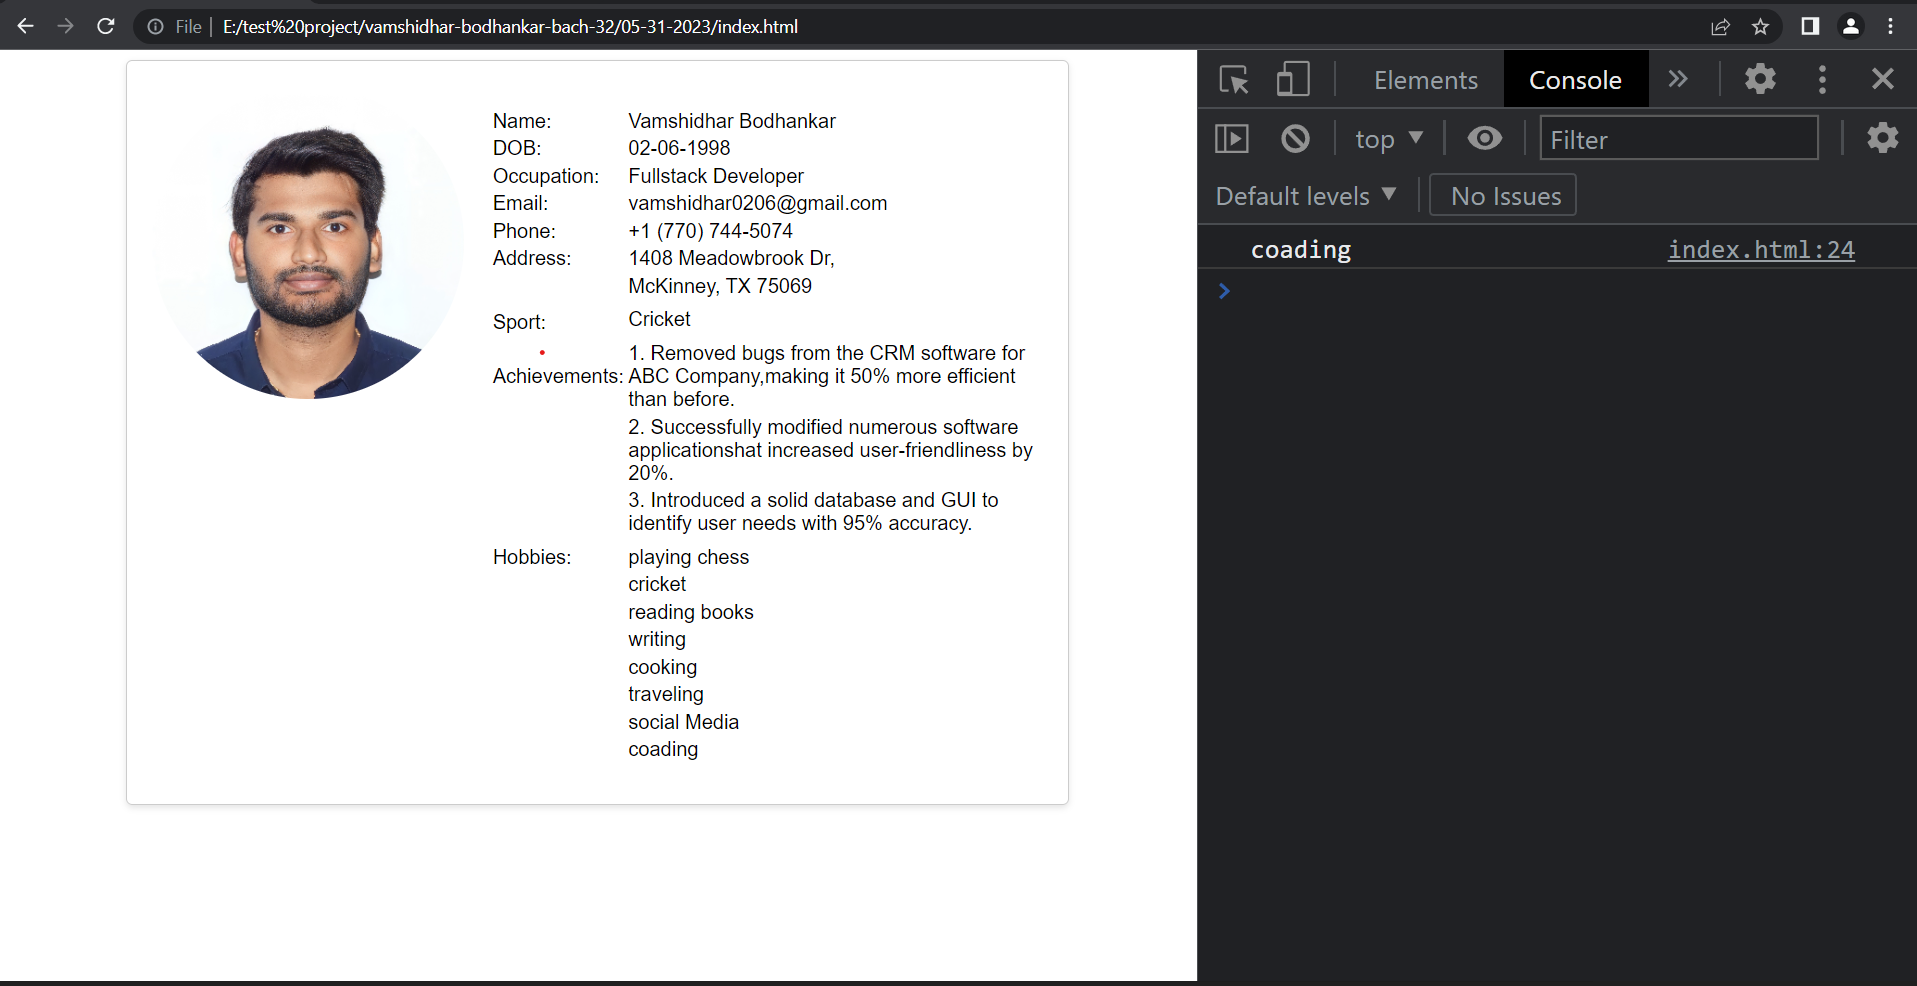
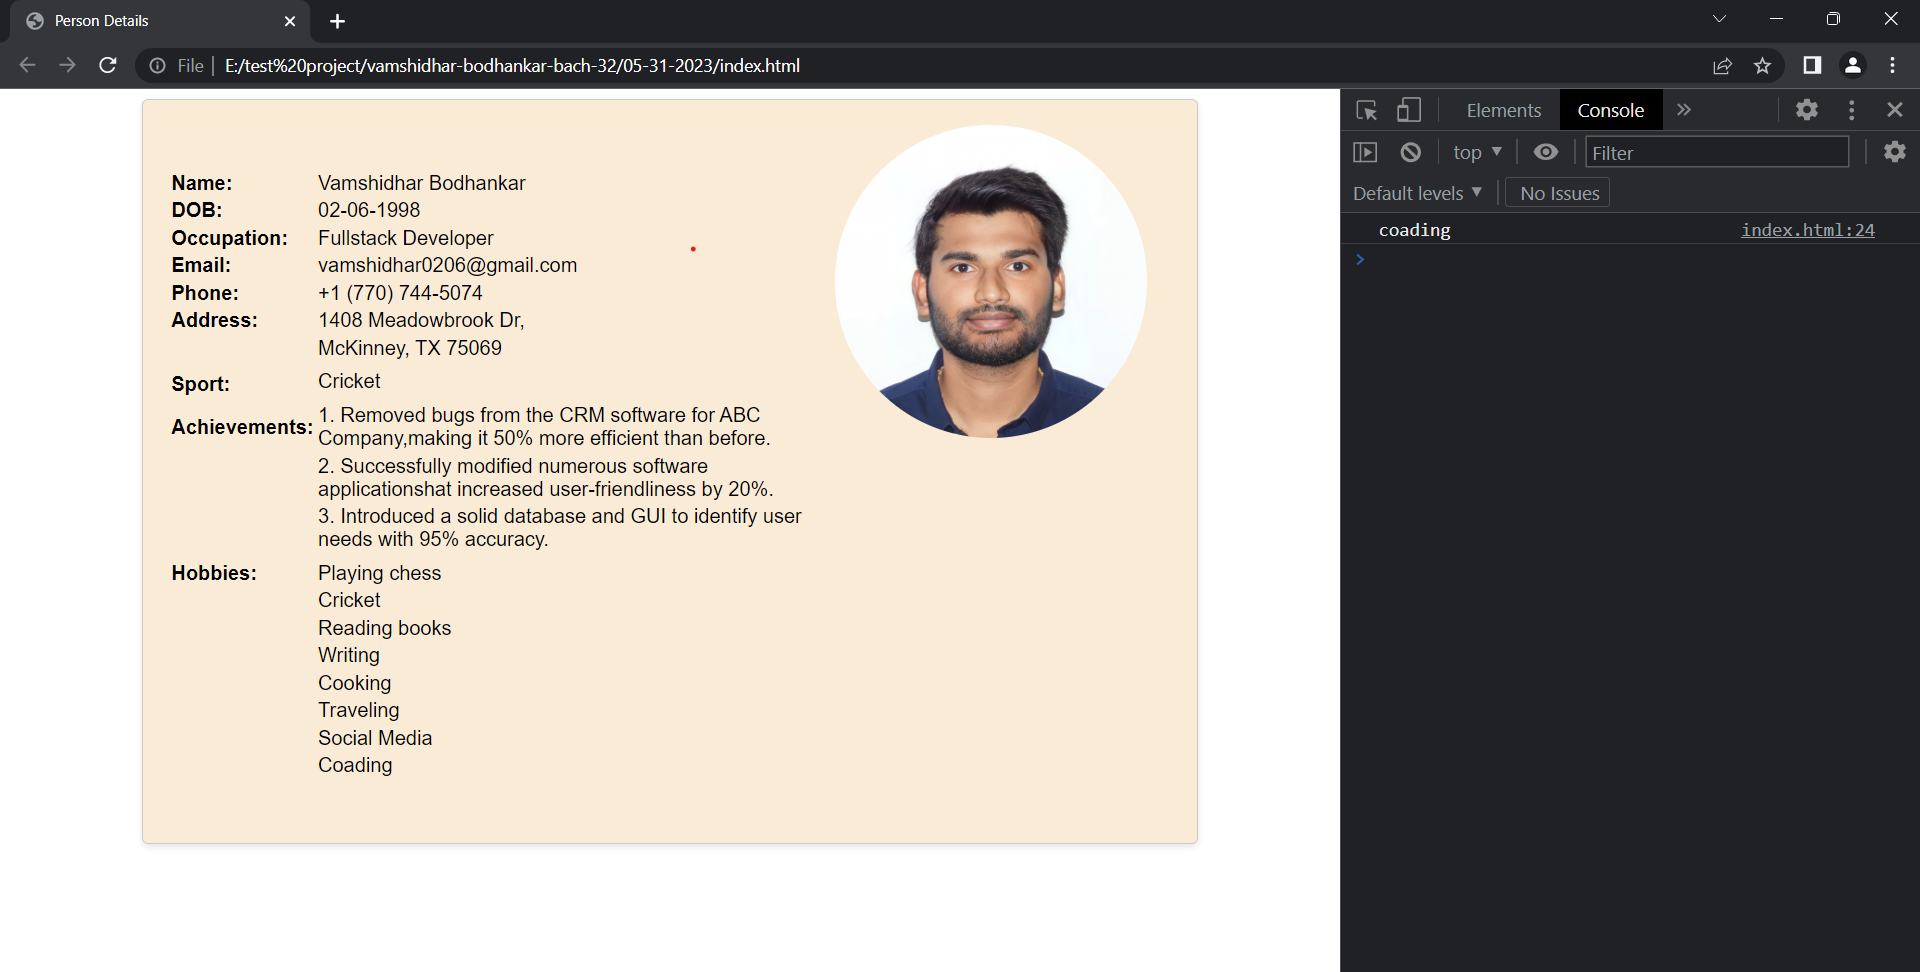
final commit 3 color changes

diff --git a/05-31-2023/index.html b/05-31-2023/index.html
@@ -27,6 +27,7 @@
 
   <style>
      .card {
+      background-color:antiquewhite;
       display: flex;
       align-items: center;
       margin-top: 1;
@@ -39,6 +40,7 @@
       font-family: Arial, sans-serif;
     }
     .card img {
+      
       width: 250;
       height: 250px;
       border-radius: 50%;
@@ -76,33 +78,31 @@
 
     
   </style>
-</head>
 <body>
     
     <div  class="card">
-        <div  class="image"><img id="img" width="250" height="250"  src="E:\test project\vamshidhar-bodhankar-bach-32\05-31-2023\avatar\image.jpg" 
-                    alt="vamshidhar-bodhankar-bach-32\05-31-2023\avatar\image.jpg"> </div>
+        
     <div class="card-details">
         <table>
-        <h2><tr> <td>Name: </td><td>Vamshidhar Bodhankar</tr></h2>
-        <p><tr><td>DOB:</td><td> 02-06-1998</td></tr></p>
-        <p><tr><td>Occupation:</td><td> Fullstack Developer</td></tr></p>
-        <p><tr><td>Email:</td><td> vamshidhar0206@gmail.com</td></tr></p>
-        <p><tr><td>Phone:</td><td> +1 (770) 744-5074</td></tr></p>
-        <p><tr><td>Address:</td><td> 1408 Meadowbrook Dr, <br>
+        <h2><tr> <td><b>Name: </b></td><td>Vamshidhar Bodhankar</tr></h2>
+        <p><tr><td><b>DOB:</b></td><td> 02-06-1998</td></tr></p>
+        <p><tr><td><b>Occupation:</b></td><td> Fullstack Developer</td></tr></p>
+        <p><tr><td><b>Email:</b></td><td> vamshidhar0206@gmail.com</td></tr></p>
+        <p><tr><td><b>Phone:</b></td><td> +1 (770) 744-5074</td></tr></p>
+        <p><tr><td><b>Address:</b></td><td> 1408 Meadowbrook Dr, <br>
             <tr><td></td><td>McKinney, TX 75069 </p>
-        <p><tr><td>Sport:</td><td> Cricket</p>
-        <p><tr><td>Achievements:</td><td> 1. Removed bugs from the CRM software for ABC Company,making it 50% more efficient than before.</td></tr>
+        <p><tr><td><b>Sport:</b></td><td> Cricket</p>
+        <p><tr><td><b>Achievements:</b></td><td> 1. Removed bugs from the CRM software for ABC Company,making it 50% more efficient than before.</td></tr>
             <tr><td></td><td>2. Successfully modified numerous software applicationshat increased user-friendliness by 20%.</td></tr>
             <tr><td></td><td>3. Introduced a solid database and GUI to identify user needs with 95% accuracy.<br> </p>
-            <tr><td>Hobbies:</td><td>playing chess <td>          
-            <tr><td></td><td>cricket</td></tr>
-            <tr><td></td><td>reading books </td></tr>
-            <tr><td></td><td>writing</td></tr>
-            <tr><td></td><td>cooking </td></tr>
-            <tr><td></td><td>traveling</td></tr>
-            <tr><td></td><td>social Media</td></tr>
-            <tr><td></td><td>coading</td></tr>
+            <tr><td><b>Hobbies:</b></td><td>Playing chess <td>          
+            <tr><td></td><td>Cricket</td></tr>
+            <tr><td></td><td>Reading books </td></tr>
+            <tr><td></td><td>Writing</td></tr>
+            <tr><td></td><td>Cooking </td></tr>
+            <tr><td></td><td>Traveling</td></tr>
+            <tr><td></td><td>Social Media</td></tr>
+            <tr><td></td><td>Coading</td></tr>
         </p> </td></tr>
 
 
@@ -110,6 +110,8 @@
         
     </table>
     </div>
+    <div  class="image"><img id="img" width="250" height="250"  src="E:\test project\vamshidhar-bodhankar-bach-32\05-31-2023\avatar\image.jpg" 
+        alt="vamshidhar-bodhankar-bach-32\05-31-2023\avatar\image.jpg"> </div>
   </div>
 
 </body>
